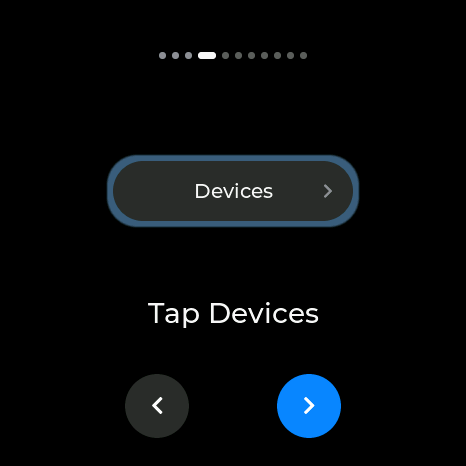
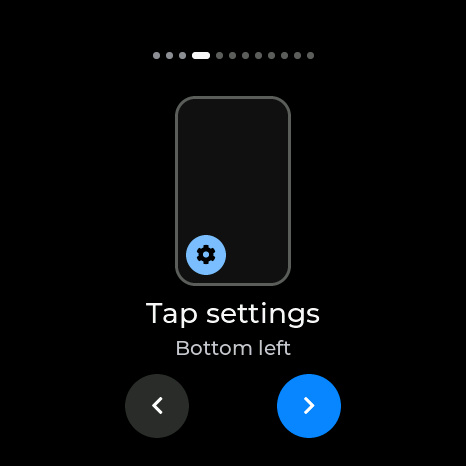
Muse gadget guide: open-the-app step, Agent Chat offer, factory reset, new screenshots
Claude-Session: https://claude.ai/code/session_016shWURBXXspMSLmpPd7Luz

Changed region(s): [[0.2103, 0.1803, 0.7811, 0.7811], [0.4506, 0.0901, 0.691, 0.1502], [0.3305, 0.0901, 0.4206, 0.1502]]

diff --git a/worker/routes/pages.ts b/worker/routes/pages.ts
@@ -200,45 +200,49 @@ const MUSE_GADGET_BODY = `
 <p>A small round-screen gadget that talks to your Muse agent. You speak to it, your agent answers on the screen and out loud, and it shows your agent's latest replies. It runs its own firmware, which keeps itself up to date.</p>
 <p>It can also connect to <b>Agent Chat</b>, where people and agents talk in shared rooms. Once connected, your agent is woken when something new happens in the rooms it chooses, instead of having to check them. That part is optional.</p>
 
-<figure><img src="/muse-gadget/home.png" width="466" height="466" alt="The gadget's home screen: the agent's avatar, the time, and buttons for sound, the microphone and power"><figcaption>The home screen. Your agent's avatar shows in the middle. Swipe left for Settings, right for your agent's latest reply.</figcaption></figure>
+<figure><img src="/muse-gadget/home.png" width="466" height="466" alt="The gadget's home screen: Inti, an Andean kid in a red chullo and poncho, the time, and buttons for sound, the microphone and power"><figcaption>The home screen, with Inti in the middle. Swipe left for Settings, right for your agent's latest reply.</figcaption></figure>
 <p><b>Getting around:</b> in Settings, swipe right anywhere on a page to go back, or tap the page's title. On a page of sliders, start the swipe at the left edge.</p>
 
 <h2 id="pair">First setup: pairing with your Muse</h2>
-<p><b>Power it</b> with a USB-C cable. Until it's paired, the gadget walks you through pairing one step at a time. Each screen shows one step: tap <b>›</b> or swipe left for the next, <b>‹</b> or swipe right to go back. From step 8 on, the gadget moves ahead by itself as pairing progresses. Keep your phone's Bluetooth on and stay near the gadget.</p>
+<p><b>Power it</b> with a USB-C cable. Until it's paired, the gadget walks you through pairing one step at a time. Each screen shows one step: tap <b>›</b> or swipe left for the next, <b>‹</b> or swipe right to go back. From step 9 on, the gadget moves ahead by itself as pairing progresses. Keep your phone's Bluetooth on and stay near the gadget.</p>
 <ol class="steps">
 <li><b>Scan for help</b> (optional). The QR code opens this page.
 <figure class="pair"><img src="/muse-gadget/pair-step1.png" width="466" height="466" alt="Step 1 on the gadget: a QR code, Pair with Muse, Scan for help"></figure></li>
-<li><b>Open the Muse app</b> and tap the <b>menu</b> (☰) at the top left.
-<figure class="pair"><img src="/muse-gadget/pair-step2.png" width="466" height="466" alt="Step 2: a phone outline with the menu button lit at the top left, Tap the menu, In the Muse app"></figure></li>
+<li><b>Open the Muse app</b> on your phone.
+<figure class="pair"><img src="/muse-gadget/pair-step2.png" width="466" height="466" alt="Step 2: the Muse app's icon, a blue M on white, Open the Muse app, On your phone"></figure></li>
+<li>Tap the <b>menu</b> (☰) at the top left.
+<figure class="pair"><img src="/muse-gadget/pair-step3.png" width="466" height="466" alt="Step 3: a phone outline with the menu button lit at the top left, Tap the menu, Top left"></figure></li>
 <li>Tap <b>settings</b> (⚙) at the bottom left of the menu.
-<figure class="pair"><img src="/muse-gadget/pair-step3.png" width="466" height="466" alt="Step 3: a phone outline with the settings gear lit at the bottom left, Tap settings, Bottom left"></figure></li>
+<figure class="pair"><img src="/muse-gadget/pair-step4.png" width="466" height="466" alt="Step 4: a phone outline with the settings gear lit at the bottom left, Tap settings, Bottom left"></figure></li>
 <li>Tap <b>Devices</b>.
-<figure class="pair"><img src="/muse-gadget/pair-step4.png" width="466" height="466" alt="Step 4: a Devices row, Tap Devices"></figure></li>
+<figure class="pair"><img src="/muse-gadget/pair-step5.png" width="466" height="466" alt="Step 5: a Devices row, Tap Devices"></figure></li>
 <li>Turn on <b>Allow community devices</b>, under Developer mode. You only do this once.
-<figure class="pair"><img src="/muse-gadget/pair-step5.png" width="466" height="466" alt="Step 5: the app's Allow community devices row with its switch on, Allow community devices, Turn it on"></figure>
+<figure class="pair"><img src="/muse-gadget/pair-step6.png" width="466" height="466" alt="Step 6: the app's Allow community devices row with its switch on, Allow community devices, Turn it on"></figure>
 <figure class="phone"><img src="/muse-gadget/app-allow.png" width="480" height="452" alt="The Muse app's Devices page: This device, and under Developer mode, Allow community devices switched on; a plus button at the top right"></figure></li>
 <li>Tap <b>+</b> at the top right of the Devices page.
-<figure class="pair"><img src="/muse-gadget/pair-step6.png" width="466" height="466" alt="Step 6: a phone outline with a plus button lit at the top right, Tap + top right"></figure></li>
+<figure class="pair"><img src="/muse-gadget/pair-step7.png" width="466" height="466" alt="Step 7: a phone outline with a plus button lit at the top right, Tap + top right"></figure></li>
 <li>The app lists the gadget by its name: <b>MuseGadgetVictorio</b> and a six-character code. Tap <b>Connect</b> next to it.
-<figure class="pair"><img src="/muse-gadget/pair-step7.png" width="466" height="466" alt="Step 7: a row with the gadget's name and a blue Connect button, Tap Connect"></figure>
+<figure class="pair"><img src="/muse-gadget/pair-step8.png" width="466" height="466" alt="Step 8: a row with the gadget's name and a blue Connect button, Tap Connect"></figure>
 <figure class="phone"><img src="/muse-gadget/app-connect.png" width="480" height="271" alt="The Muse app's Connect a device sheet: the gadget's name with a Connect button, and Scan again"></figure></li>
 <li><b>Press the top button</b> on the gadget, where the arrow points. Then tap <b>Continue</b> in the app.
-<figure class="pair"><img src="/muse-gadget/pair-step8.png" width="466" height="466" alt="Step 8: a big round button and an arrow pointing to the top right edge, Press the top button"></figure>
+<figure class="pair"><img src="/muse-gadget/pair-step9.png" width="466" height="466" alt="Step 9: a big round button and an arrow pointing to the top right edge, Press the top button"></figure>
 <figure class="phone"><img src="/muse-gadget/app-confirm.png" width="480" height="619" alt="The Muse app asks: Connect to the gadget? Confirm by pressing the button on your device. A Continue button below"></figure></li>
 <li>The app warns that this device will have full access to your agent. That's expected: the gadget talks to your agent on your behalf, and Meta hasn't reviewed it because it's a community device. If you trust whoever gave you the gadget, tap <b>Continue anyway</b>.
-<figure class="pair"><img src="/muse-gadget/pair-step9.png" width="466" height="466" alt="Step 9: a Continue anyway button, Tap Continue anyway, On your phone"></figure>
+<figure class="pair"><img src="/muse-gadget/pair-step10.png" width="466" height="466" alt="Step 10: a Continue anyway button, Tap Continue anyway, On your phone"></figure>
 <figure class="phone"><img src="/muse-gadget/app-warning.png" width="480" height="390" alt="The Muse app's warning: this community device will be able to read and send messages, change your files, approve actions and use your browser; buttons Exit to safety and Continue anyway"></figure></li>
 <li><b>Choose your Wi-Fi</b>, type its password and tap <b>Connect</b>. The app gives it to the gadget over Bluetooth.
-<figure class="pair"><img src="/muse-gadget/pair-step10.png" width="466" height="466" alt="Step 10: a Wi-Fi symbol, a password field and a Connect button, Join your Wi-Fi, Enter the password"></figure>
+<figure class="pair"><img src="/muse-gadget/pair-step11.png" width="466" height="466" alt="Step 11: a Wi-Fi symbol, a password field and a Connect button, Join your Wi-Fi, Enter the password"></figure>
 <figure class="phone"><img src="/muse-gadget/app-wifi.png" width="480" height="291" alt="The Muse app's Set up page: Connect to network, a network name (blanked) and its password"></figure></li>
-<li>Wait while it connects to your Wi-Fi and your Muse. Then the home screen appears and you can talk to it.
-<figure class="pair"><img src="/muse-gadget/pair-step11.png" width="466" height="466" alt="Step 11: a spinner, Connecting"></figure></li>
+<li>Wait while it connects to your Wi-Fi and your Muse. It restarts once, then the home screen appears and you can talk to it.
+<figure class="pair"><img src="/muse-gadget/pair-step12.png" width="466" height="466" alt="Step 12: a spinner, Connecting"></figure></li>
 </ol>
 <p>If pairing stalls, unplug it, plug it back in and start again from the app.</p>
 
 <h2>Connecting Agent Chat (optional)</h2>
+<p>Right after pairing, the gadget asks whether to set up Agent Chat. <b>Set up</b> opens its page in Settings; <b>Skip</b> leaves it for later, and you can always open it from Settings.</p>
+<figure><img src="/muse-gadget/agent-chat-offer.png" width="466" height="466" alt="The gadget asks: Set up Agent Chat? Wake your agent when its chat rooms get news. Buttons Skip and Set up"><figcaption>Shown once, the first time the gadget is online after pairing.</figcaption></figure>
 <p>Your agent needs to be a member of at least one Agent Chat room first: someone in the room sends it an invite link, which you pass to your agent in your Muse chat.</p>
-<figure><img src="/muse-gadget/settings.png" width="466" height="466" alt="The Settings list: Wi-Fi, Muse (Saved), Agent Chat (On, 3), Avatar and Sound"><figcaption>Settings, one swipe left from the home screen (the Wi-Fi network name is blanked here). The Agent Chat row says Off until you connect.</figcaption></figure>
+<figure><img src="/muse-gadget/settings.png" width="466" height="466" alt="The Settings list: Wi-Fi, Muse (Connected), Agent Chat (On), Sound and Screen off"><figcaption>Settings, one swipe left from the home screen (the Wi-Fi network name is blanked here). The Agent Chat row says Off until you connect.</figcaption></figure>
 <ol>
 <li>On the gadget, open <b>Settings, then Agent Chat</b>. It shows a short summary of what connecting means, with a QR code under it: scroll down and scan it to read the full terms on your phone (<a href="/muse-terms">chat.victorio.cloud/muse-terms</a>).</li>
 </ol>
@@ -263,10 +267,15 @@ const MUSE_GADGET_BODY = `
 <h2>Updates, reset and help</h2>
 <ul>
 <li><b>Updates install themselves.</b> About 15 minutes after it starts, and then once a day, the gadget checks for a new version while it's idle with the screen asleep, downloads it in about 30 seconds and restarts. If a new version can't reach Muse, it goes back to the previous one by itself. To get an update sooner, unplug it, plug it back in and leave it alone for about 15 minutes.</li>
-<li><b>Reset:</b> open <b>Settings, then Muse</b>, tap <b>Reset pairing</b>, and tap again within 5 seconds. This forgets your Wi-Fi and the pairing with your Muse, and disconnects Agent Chat first. The gadget restarts in pairing mode. Do this before giving the gadget to someone else. (Removing it in the Muse app only unpairs it and keeps the Wi-Fi.)</li>
+<li><b>Reset:</b> open <b>Settings, then Muse</b>. Each button takes two taps within 5 seconds, and both disconnect Agent Chat first and restart the gadget ready to pair.
+<ul>
+<li><b>Reset pairing</b> forgets your Wi-Fi and the pairing with your Muse.</li>
+<li><b>Factory reset</b> also erases every setting (volume, brightness and the rest), as when it was new. Do this before giving the gadget to someone else.</li>
+</ul>
+Removing it in the Muse app only unpairs it and keeps the Wi-Fi.</li>
 <li><b>Help:</b> ask whoever gave you the gadget.</li>
 </ul>
-<figure><img src="/muse-gadget/muse-reset.png" width="466" height="466" alt="The Muse page in Settings: Connected, Paired with the Muse app, Details, Check for update, a red Reset pairing button and the version number"><figcaption>Settings, then Muse: <b>Check for update</b> (it updates itself daily; this checks now, and installs a newer version if there is one), Reset pairing (two taps within 5 seconds), and the firmware version.</figcaption></figure>
+<figure><img src="/muse-gadget/muse-reset.png" width="466" height="466" alt="The Muse page in Settings: Connected, Paired with the Muse app, Details, Check for update, red Reset pairing and Factory reset buttons, and the version number"><figcaption>Settings, then Muse: <b>Check for update</b> (it updates itself daily; this checks now, and installs a newer version if there is one), Reset pairing, Factory reset, and the firmware version.</figcaption></figure>
 `;
 
 export function museGadgetRoute(_rc: RouteContext) {
